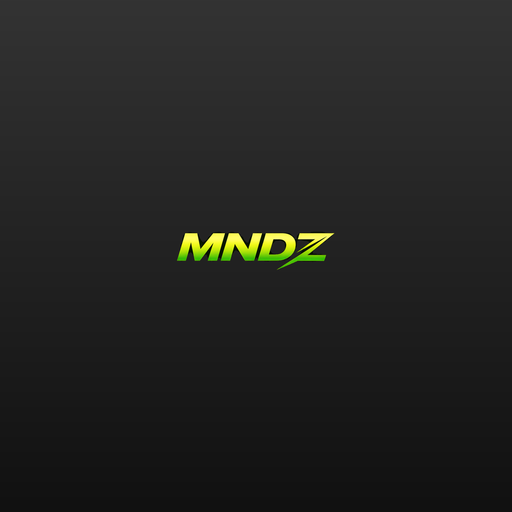
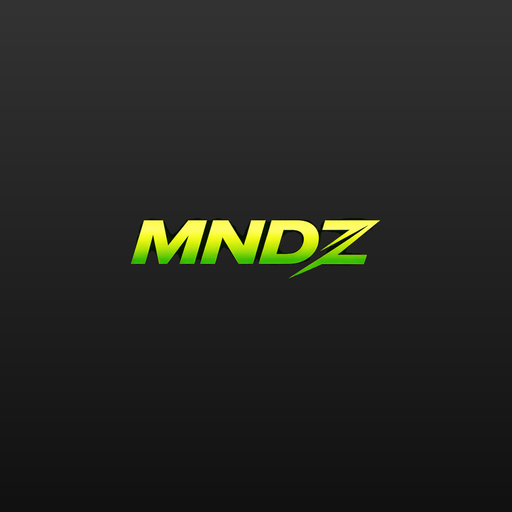
fix: call saveDatabase after logging weight to ensure persistence

Changed region(s): [[0.25, 0.4062, 0.75, 0.5625]]

diff --git a/server/index.js b/server/index.js
@@ -534,6 +534,7 @@ app.post('/api/progress/weight', authenticateToken, async (req, res) => {
         } else {
             await dbRun('INSERT INTO body_weight_logs (userId, weight, date) VALUES (?, ?, ?)', [req.userId, weight, date]);
         }
+        saveDatabase();
         res.json({ success: true });
     } catch (err) {
         res.status(500).json({ error: err.message });

diff --git a/fix_ios_icon.py b/fix_ios_icon.py
@@ -21,7 +21,7 @@ for y in range(ICON_SIZE):
 logo = Image.open('src/assets/logo_transparent.png').convert('RGBA')
 
 # Scale logo to be well-balanced (60% width)
-logo_target_width = int(ICON_SIZE * 0.60)
+logo_target_width = int(ICON_SIZE * 0.95)
 ratio = logo_target_width / logo.width
 new_h = int(logo.height * ratio)
 logo_resized = logo.resize((logo_target_width, new_h), Image.LANCZOS)
